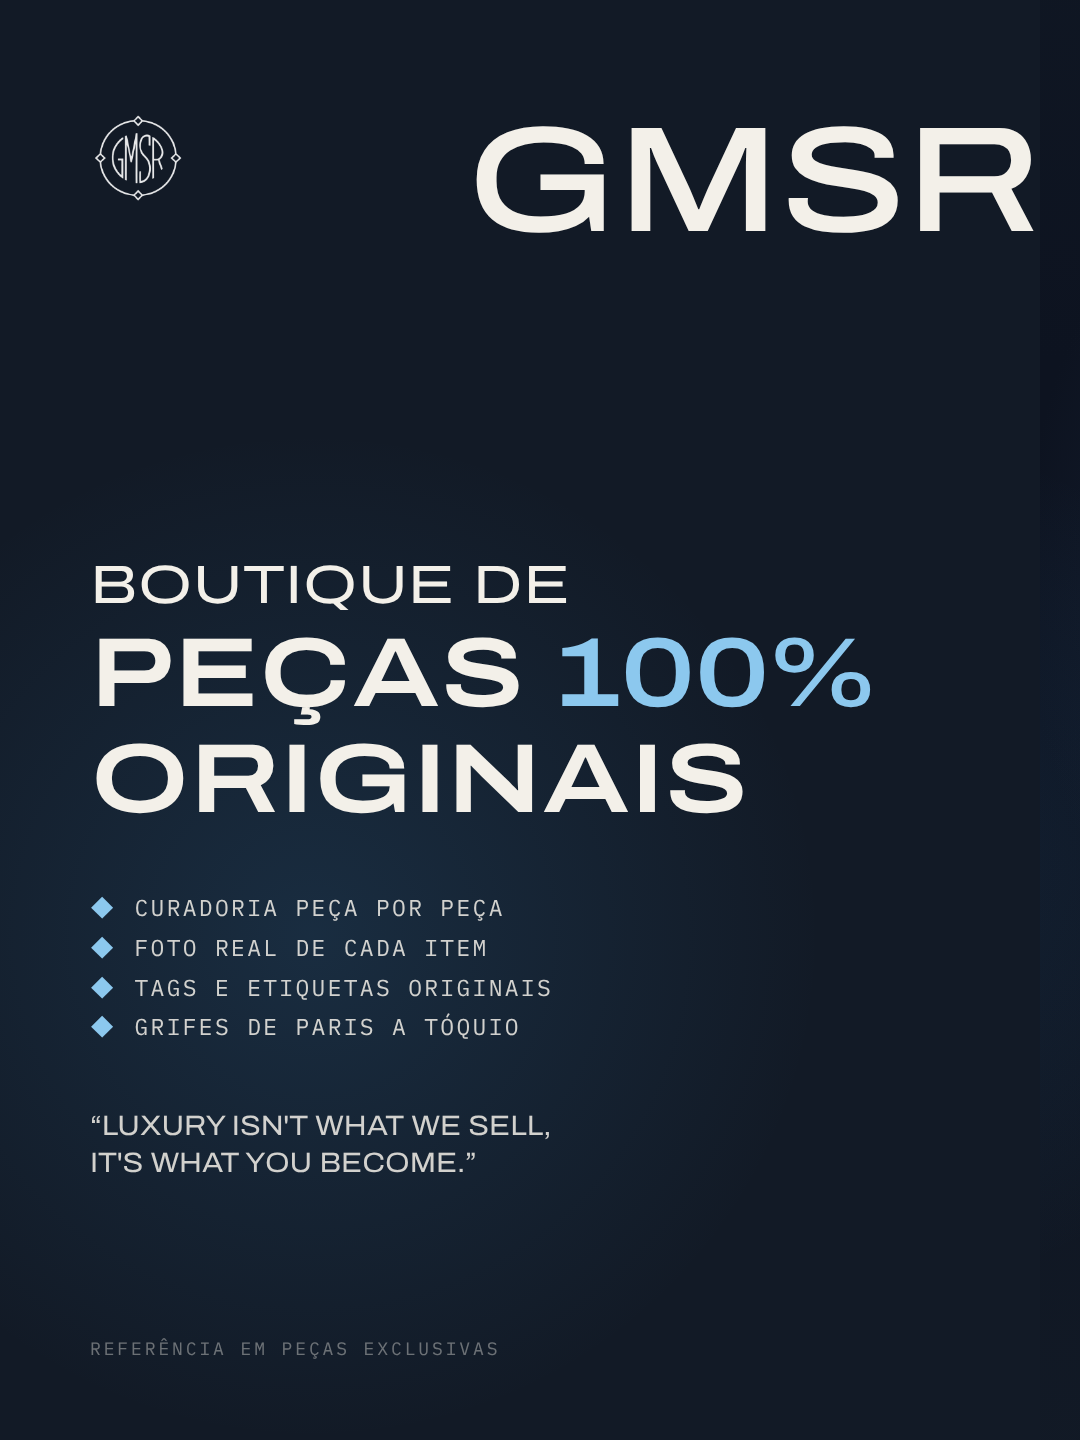
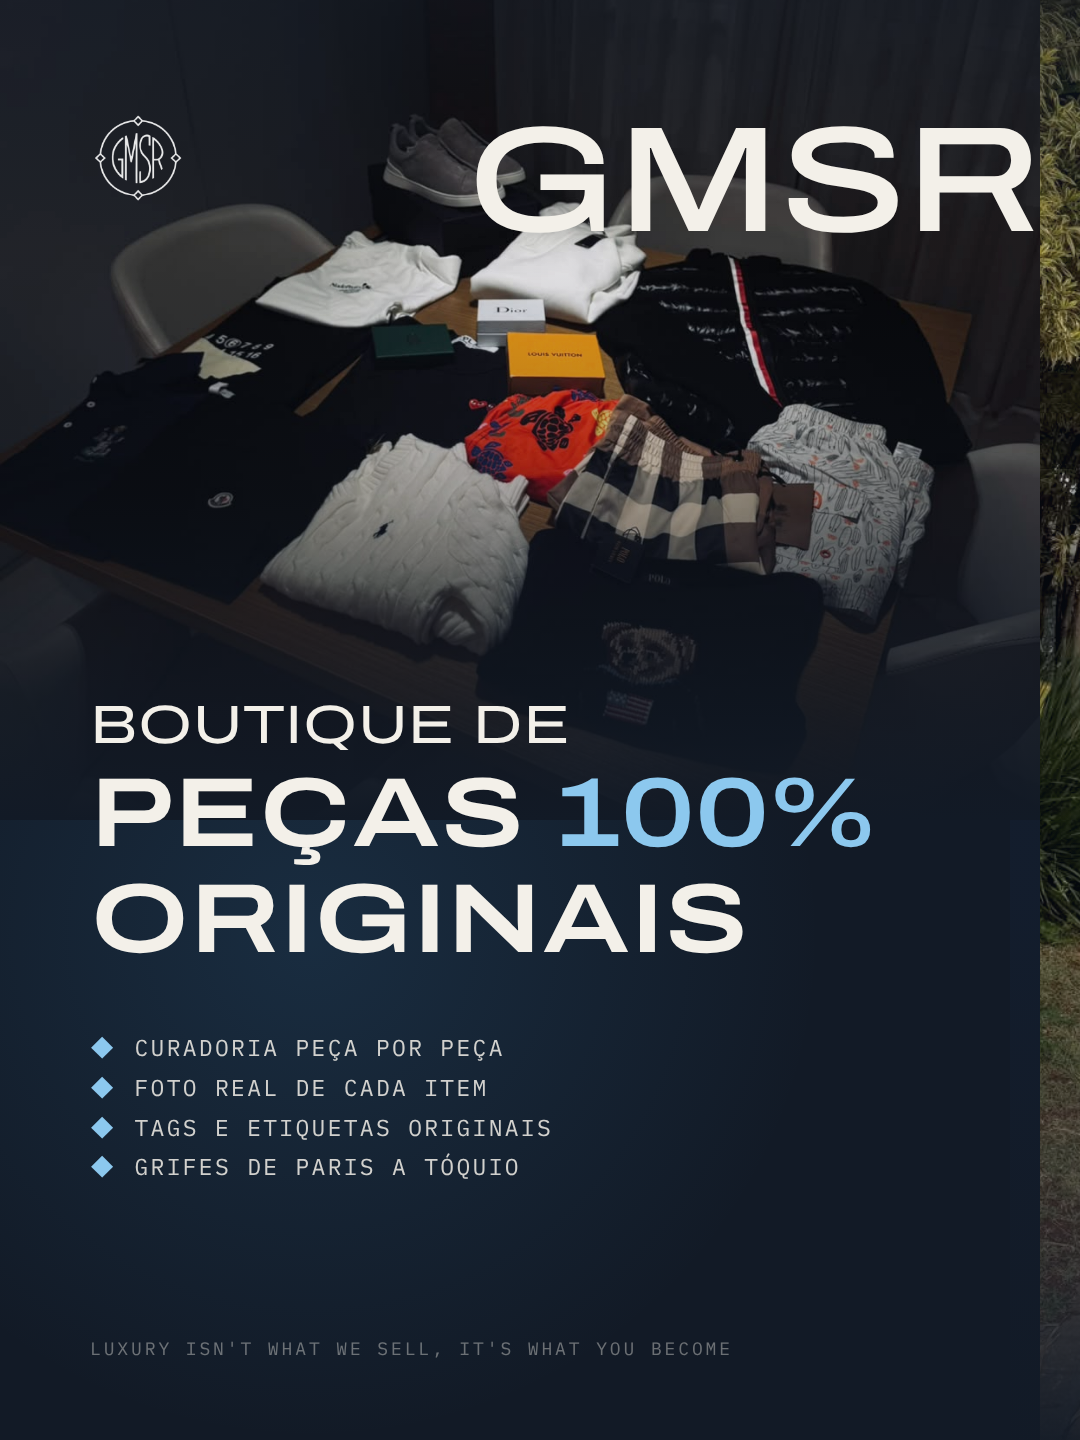
Grade: foto do dono no meio e foto do acervo na esquerda
- assets/fotos/dono.jpg e acervo-mesa.jpg (fotos enviadas pela GMSR)
- Esquerda: foto das peças na mesa no topo, com o texto da loja embaixo
- Meio: foto do dono com "Quem é o dono?" na base
- Ajuste de tom para combinar com o azul da marca

Claude-Session: https://claude.ai/code/session_018Rxm36svjxPgU3W8TLCnbb

diff --git a/posts-grade/01-grade-loja/slides.html b/posts-grade/01-grade-loja/slides.html
@@ -51,14 +51,19 @@
   .panel{z-index:1}
   .panel.l{background:radial-gradient(70% 50% at 30% 65%,rgba(62,143,203,.16),transparent 70%),#121A26 !important}
   .panel.r{background:radial-gradient(70% 50% at 60% 35%,rgba(62,143,203,.2),transparent 70%),#121A26 !important}
-  .who{position:absolute;left:0;right:0;bottom:150px;text-align:center;z-index:3}
-  .who .k2{font-weight:400;font-size:56px;color:#F3F0E9}
-  .who .t2{font-weight:700;font-size:120px;color:#F3F0E9;margin-top:6px}
+  .who{position:absolute;left:0;right:0;bottom:70px;text-align:center;z-index:3}
+  .who .k2{font-weight:400;font-size:44px;color:#F3F0E9}
+  .who .t2{font-weight:700;font-size:100px;color:#F3F0E9;margin-top:6px}
   .who .t2 em{font-style:normal;color:var(--sky)}
   .who .s2{font-family:Mono;font-size:22px;letter-spacing:.16em;text-transform:uppercase;color:rgba(243,240,233,.75);margin-top:22px}
-  .photo .shade{background:linear-gradient(180deg,rgba(18,26,38,.45),transparent 25%,transparent 50%,rgba(18,26,38,.92)) !important}
+  .photo .shade{background:linear-gradient(180deg,rgba(18,26,38,.5),rgba(18,26,38,.05) 22%,rgba(18,26,38,.05) 62%,rgba(18,26,38,.95)),rgba(30,60,100,.12) !important}
   .mapbox{position:absolute;left:2330px;top:330px;width:660px;height:660px;z-index:3;filter:drop-shadow(0 30px 60px rgba(0,0,0,.5))}
   .mapa{width:100%;height:100%}
+  .shop{position:absolute;left:0;top:0;width:1040px;height:820px;z-index:2;overflow:hidden}
+  .shop img{width:100%;height:100%;object-fit:cover;object-position:50% 62%;display:block;filter:saturate(.9) brightness(1.15)}
+  .shop:after{content:"";position:absolute;inset:0;background:linear-gradient(180deg,rgba(18,26,38,.55) 0%,rgba(18,26,38,.1) 30%,rgba(18,26,38,.35) 60%,#121A26 100%)}
+  .photo img{position:absolute;inset:0;z-index:1;object-position:50% 40%;filter:saturate(.85) contrast(1.05)}
+  .photo .shade,.photo .tag,.photo .who{z-index:2}
 </style>
 </head>
 <body>
@@ -88,9 +93,10 @@
     <div class="wide mark l">GMSR</div>
     <div class="wide mark r">MAISON</div>
 
-    <!-- ESQUERDA: a loja -->
+    <!-- ESQUERDA: a loja (foto do acervo no topo) -->
+    <div class="shop"><img src="../../assets/fotos/acervo-mesa.jpg" alt=""></div>
     <img class="logo-s" src="../../assets/logo/gmsr-mono-branco.png" style="left:90px;top:110px" alt="">
-    <div class="copy wide" style="left:90px;top:560px;width:900px">
+    <div class="copy wide" style="left:90px;top:700px;width:900px">
       <div class="k">Boutique de</div>
       <div class="t">Peças <em>100%</em><br>originais</div>
       <div class="info">
@@ -99,9 +105,8 @@
         <div><i>◆</i>Tags e etiquetas originais</div>
         <div><i>◆</i>Grifes de Paris a Tóquio</div>
       </div>
-      <div class="q">“Luxury isn't what we sell,<br>it's what you become.”</div>
     </div>
-    <div class="foot" style="left:90px">Referência em peças exclusivas</div>
+    <div class="foot" style="left:90px">Luxury isn't what we sell, it's what you become</div>
 
     <!-- DIREITA: envio + mapa -->
     <div class="mapbox"><div class="mapa" data-cores="#8CC8EE,#5FA8DF,#A9D6F3,#3E8FCB" data-fundo="#121A26" data-label="#121A26"></div></div>

diff --git a/posts-grade/01-grade-loja/legenda.md b/posts-grade/01-grade-loja/legenda.md
@@ -13,7 +13,7 @@
 
 Depois, fixe os três no topo do perfil, nesta mesma ordem, para a arte ficar sempre na primeira linha.
 
-**Falta:** a foto do dono com as peças, no meio. Coloque a foto em `assets/fotos/dono.jpg` (vertical, de preferência 1220×1440 ou maior) e rode `npm run render`.
+**Fotos:** `assets/fotos/dono.jpg` (meio) e `assets/fotos/acervo-mesa.jpg` (esquerda). Para trocar, substitua os arquivos mantendo os nomes e rode `npm run render`.
 
 ---
 
